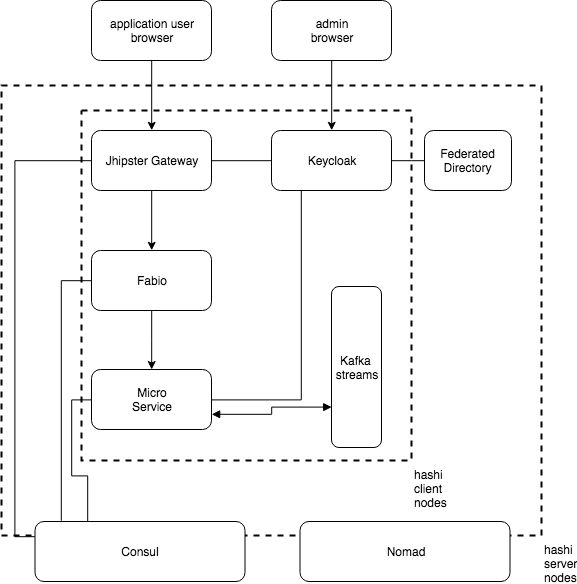
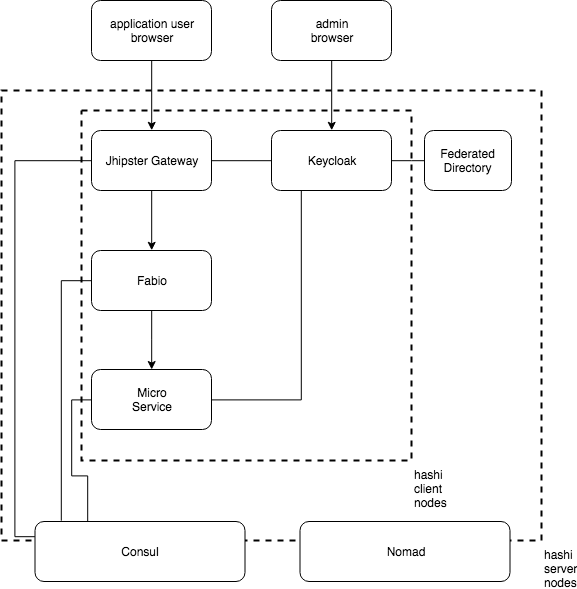
Updated with Dennis' comments

diff --git a/posts/hybrid-cloud-cloud-responsibly.md b/posts/hybrid-cloud-cloud-responsibly.md
@@ -9,11 +9,11 @@ tags:
 - JHipster
 - POC
 date: 2019-08-26T12:00:00.000Z
-title: "Hybric Cloud - Cloud Responsibly"
+title: "Hybrid Cloud - Cloud Responsibly"
 image: https://github.com/ippontech/blog-usa/blob/master/images/2019/08/hybrid-cloud.jpg
 ---
 
-In this post, we’ll describe the <a href="#concept">hybrid cloud concept</a>, the <a href="#benefits">benefits</a> it provides, and a <a href="#architecture">reference architecture</a> to implementing it.
+In this post, we’ll describe the <a href="#concept">hybrid cloud concept</a>, the <a href="#benefits">benefits</a> it provides, and a <a href="#architecture">reference architecture</a> to implement it.
 
 Moving from on-prem to the cloud via “forklift migration”, where legacy systems are dumped into a cloud-based host, is inefficient and ineffective. The goal should be to strategically extend into the cloud without abandoning the on-prem infrastructure. We do this by incrementally moving services to the cloud, leveraging the advantages of the cloud platform while retaining the value of on-prem where appropriate. This approach allows us to treat cloud vendors as interchangeable based upon cost/value criteria driven by the needs of the business. 
 
@@ -33,11 +33,12 @@ As infrastructure technology has improved, the logical boundary where we natural
 - Manage risk of committing to a single vendor
 - Support proximity to customers for location-sensitive applications
 - Assure availability of enterprise-critical services
+- Workflow portability (support corporate aquisition)
 
 <h2 id="architecture">Ippon's Approach</h2>
-Our approach allows clients to seamlessly integrate the best features from each cloud into one “best of the breed” infrastructure. Strategically combining and modernizing existing environments while expanding into one or more clouds.  We have created a reference architecture using modern technologies that supports the view of multiple cloud vendors (including on-prem) as a single cloud.  
+Our approach allows clients to seamlessly integrate the best features from each cloud into one “best of breed” infrastructure. We are strategically combining and modernizing existing environments while expanding into one or more clouds. We have created a reference architecture using modern technologies that supports the view of multiple cloud vendors (including on-prem) as a single cloud. 
 
-The first step is to conceive of an abstraction layer to allow us to handle all infrastructure in a common manner.  In the diagram below we introduce this layer (using the HashiCorp offerings Nomad and Consul).
+The first step is to conceive of an abstraction layer to allow us to handle all infrastructure in a common manner. In the diagram below we introduce this layer (using the HashiCorp offerings Nomad and Consul).
 
 
 ![alternate text](https://github.com/ippontech/blog-usa/blob/master/images/2019/08/IpponWay-Hybrid-Cloud.png)
@@ -48,16 +49,16 @@ The following diagram introduces the high-level software/application architectur
 
 ![alternate text](https://github.com/ippontech/blog-usa/blob/master/images/2019/08/IpponWay-Software-Architecture.png)
 
-Our proof of concept uses the HashiStack Consul and Nomad with JHipster to produce a hybrid cloud compatible solution. The solution can be deployed in the cloud or on-prem with the intent that the deployment target does not alter the architecture of the application software.  Deployment of the application is performed and controlled using HashiCorp Nomad software. All configuration information used by the application, and Nomad, is maintained within the HashiCorp Consul software which is distributed in a fault-tolerant manner across the hybrid infrastructure. Nomad, using Consul as a configuration store, deploys and invokes the application code in the target environments (cloud or on-prem) via a job specification.  These configuration and deployment communications are represented by arrow-less lines connecting the components in the above diagram.
+Our proof of concept uses the HashiCorp products Consul and Nomad with JHipster to produce a hybrid cloud compatible solution. The solution can be deployed in the cloud or on-prem with the intent that the deployment target does not alter the architecture of the application software. Deployment of the application is performed and controlled using Nomad. All configuration information used by the application, and Nomad, is maintained within Consul which is distributed in a fault-tolerant manner across the hybrid infrastructure. Nomad, using Consul as a configuration store, deploys and invokes the application code in the target environments (cloud or on-prem) via a job specification. These configuration and deployment communications are represented by arrow-less lines connecting the components in the above diagram.
 
-The JHipster Gateway communicates with Keycloak to perform authentication and authorization against a directory server (typically LDAP or Active Directory). User’s information is stored in a federated directory and securely managed with Keycloak, via a dedicated user interface, which provides user authentication and role based access control. The JHipster Gateway and microservices enforce role based access (using Spring Security) supported by Keycloak to allow users access to services according to their permissions. 
+The JHipster Gateway communicates with Keycloak to perform authentication and authorization against a directory server (typically LDAP or Active Directory). User information is stored in a federated directory and securely managed with Keycloak, via a dedicated user interface, which provides user authentication and role based access control. The JHipster Gateway and microservices enforce role based access (using Spring Security) supported by Keycloak to allow users access to services according to their permissions. 
 
 The microservices are load balanced by Fabio, a fine grained application router that routes subsets of URLs to different instances of micro services. The service discovery engine, Consul, finds services in the network, health checks them, and notifies Fabio of what services are healthy/available. The container technology, Nomad, defines services to be deployed (Docker) for Consul assigning them names, ports, and tags to tell Fabio what type of service it is.
 
-The arrowed lines represent the request flow through the deployed application. The user interface is a single page application (SPA) that obtains content from the gateway and submits REST calls for data to the gateway. The gateway forwards requests to Fabio which are then load balanced and routed to the appropriate microservice to be serviced. Additionally, microservices can leverage Kafka streams to support queuing and asynchronous processing for applications having those needs.
+The arrowed lines represent the request flow through the deployed application. The user interface is a single page application (SPA) that obtains content from the gateway and submits REST calls for data to the gateway. The gateway forwards requests to Fabio which are then load balanced and routed to the appropriate microservice to be serviced.
 
 <h2>Example</h2>
-Hybrid Cloud is about running your infrastructure where it makes sense. For example, the diagram below shows an application in AWS so that it’s fault tolerant, and it uses Fabio which routes to microservices either on-prem or in the cloud depending on whether it’s a compute-heavy request (cloud) or something simple like a lookup (on-prem). While the federated directory and user authentication is kept private on-prem.
+Hybrid Cloud is about running your infrastructure where it makes sense. For example, the diagram below shows an application in AWS (so that it’s fault tolerant) and uses Fabio to route to microservices discriminating between on-prem and AWS by compute-heavy (cloud) vs enterprise data lookup (on-prem). The sensitive functions of federated directory and user authentication remain on-prem.
 
 
 ![alternate text](https://github.com/ippontech/blog-usa/blob/master/images/2019/08/IpponWay-Hybrid-Cloud-Example.png)
@@ -80,12 +81,11 @@ Ippon selected the following software for our solution:
 - Back-end/Microservice framework/language - Spring Boot/Java
 - User Account Management - Keycloak
 - Cloud Deployment - Nomad, Ansible, Docker
-- Queuing/Streaming - Kafka
 
 A key aspect of the above software selection was the preference for open source software over commercial software. For example, this guided the choice of Keycloak over Okta for
-authentication and authorization services. HashiCorp software (Nomad, Consul) was selected to obtain the abstraction layer to insulate the solution from the specifics of individual cloud providers and on-prem. JHipster was selected because of our company’s expertise in using it to quickly produce enterprise grade applications. The remaining software selections were guided by popularity in the industry and proven reliability.
+authentication and authorization services. HashiCorp software (Nomad, Consul) was selected to obtain the abstraction layer to insulate the solution from the specifics of individual cloud providers and on-prem. JHipster was selected because of its ease of use in quickly generating enterprise grade applications. The remaining software selections were guided by popularity in the industry and proven reliability.
 
-While our selections represent Ippon’s preferences for building this solution, our understanding of the roles of each component allow us to interchange them as necessary to fit into specific environments dictated by the needs and desires of our clients.
+ <span style="background-color:#f0f0f0"> While our selections represent Ippon’s preferences for building this solution, our understanding of the roles of each component allow us to interchange them as necessary to fit into specific environments dictated by the needs and desires of our clients.</span>
 
 ---
 There are many nuances to what makes sense in the cloud, and what doesn’t, as well as which cloud to use. No one wants to admit it, but it’s true. In a lot of circumstances running things on your own hardware is cheaper and has better performance. With Ippon’s wisdom, we can guide you to the cloud where it makes sense and how it makes sense.
